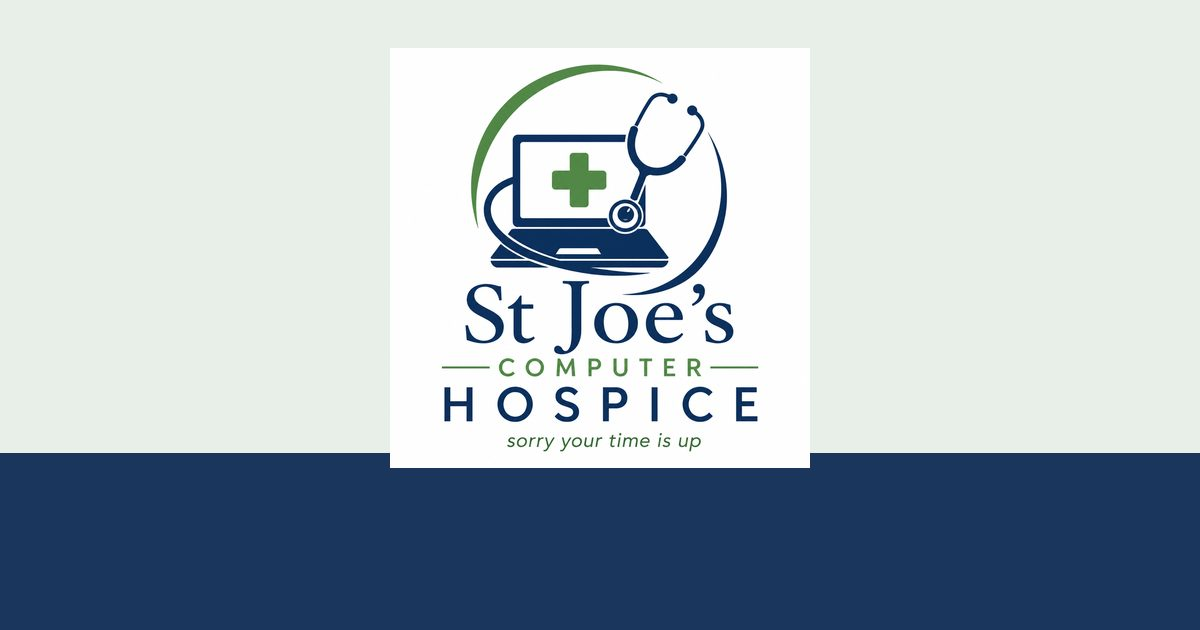
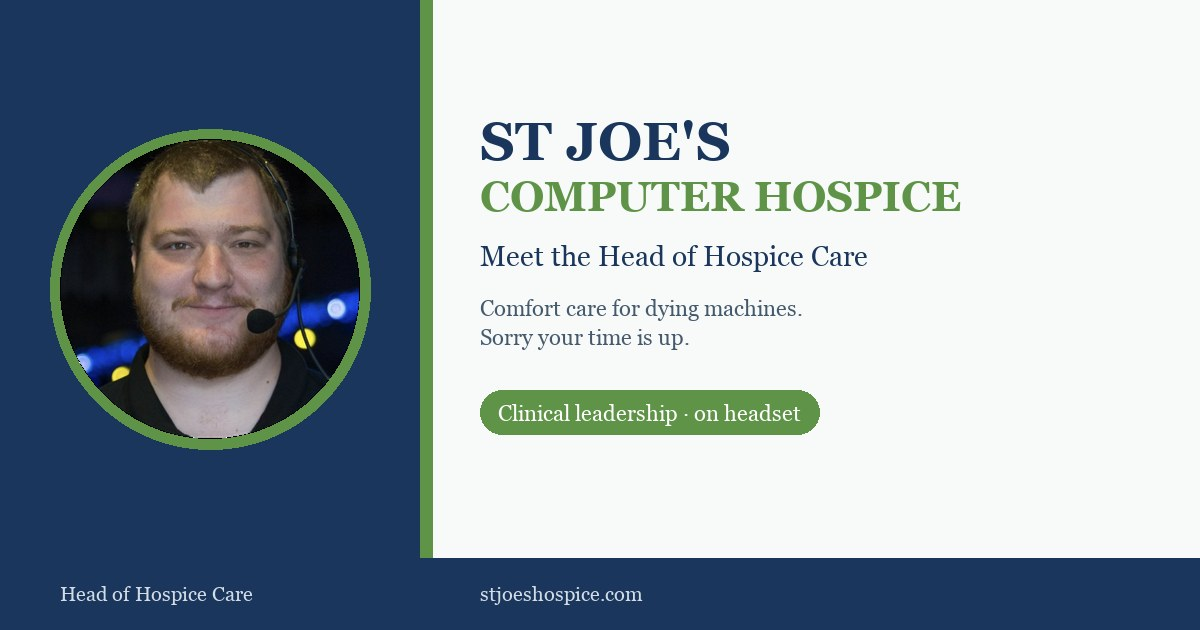
Show Head of Hospice Care on Open Graph and Twitter cards.

diff --git a/app/layout.tsx b/app/layout.tsx
@@ -32,14 +32,15 @@ export const metadata: Metadata = {
     locale: "en_US",
     url: siteUrl,
     siteName: "ST Joe's Computer Hospice",
-    title: "ST Joe's Computer Hospice",
+    title: "ST Joe's Computer Hospice | Head of Hospice Care",
     description:
-      "Comfort care for dying machines. Last rites for hard drives. Sorry your time is up.",
+      "Meet the Head of Hospice Care. Comfort care for dying machines. Sorry your time is up.",
   },
   twitter: {
     card: "summary_large_image",
-    title: "ST Joe's Computer Hospice",
-    description: "Comfort care for dying machines. Sorry your time is up.",
+    title: "ST Joe's Computer Hospice | Head of Hospice Care",
+    description:
+      "Meet the Head of Hospice Care. Comfort care for dying machines. Sorry your time is up.",
   },
 }
 

diff --git a/README.md b/README.md
@@ -38,6 +38,8 @@ API note: the local Cloudflare token can read existing zones but can’t create 
 
 One-page hospice parody: continuum of care, Head of Hospice Care portrait, patient board, visiting hours, and an embedded “happy costermer” video that autoplays (muted — browsers won’t unmute without a click). No email admit button. Not a real hospital.
 
+OG / Twitter preview (`app/opengraph-image.jpg`) shows the Head of Hospice Care portrait with brand colors — same pattern as the LECYC sites.
+
 ## Logos & portraits
 
 In `public/`:
